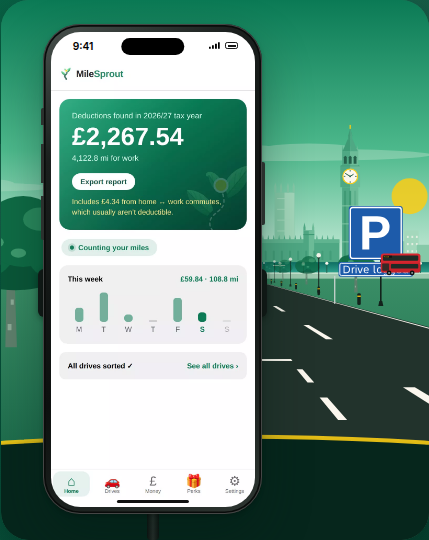
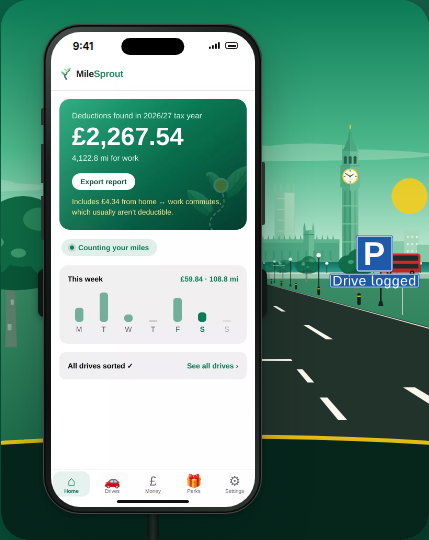
London: bus behind every sign; P sign grounded on a post at the bay's far end, about 30 px
- The bus is drawn in the mid layer (ambient.layer 'mid'), behind every sign, post, tree and bollard.
- P sign: panel about 1.7x the original (about 28-29 CSS px at rest at 390 and 1280), a wider one-line
  'Drive logged' plate (9.5 px cap at rest), on a grey post down to the left kerb at the far end of the bay
  (desktop: on the right verge, its face hanging back over the road). It stays inside the frame and below
  the clock face at both widths, at rest and through the zoom; it fades as the car pulls away (9.1-9.4 s).
- Signs and the bay are placed from the clock (the integral of the pace), not the frame-by-frame sum, so they
  land in the same place as the Reduce Motion still every loop.

Claude-Session: https://claude.ai/code/session_01HV35bfD7NzTSNvA32BVxeb

Changed region(s): [[0.7576, 0.3556, 1.0, 0.563]]

diff --git a/website/assets/site.js b/website/assets/site.js
@@ -758,7 +758,7 @@
         clouds: null, cloudMarkup: cloudsG ? cloudsG.innerHTML : '', sun: sun && { cx: sun.getAttribute('cx'), cy: sun.getAttribute('cy'), r: sun.getAttribute('r') } };
       var bayG = null, bayYellow = null, bayWhite = null;
       var cur = null, curId = 'standard', sign = { list: [], parked: null }, passingEl = null, parkedEl = null, ambEl = null;
-      var loopIdx = 0, sLoop = 0, lastT = 0, cloudX = 0, depthEls = [];
+      var loopIdx = 0, lastT = 0, cloudX = 0, depthEls = [];
       var ctx = {
         text: SCENES.text,
         rate: function (c) {
@@ -776,7 +776,7 @@
       }
       // a sign: its face on one or two posts, drawn with the post's foot at 0,0 (sign px)
       function signMarkup(sp) {
-        var postPx = 0.8 * sp.w / sp.world, pc = sp.post || '#C9D3CE', pw = Math.max(2.5, sp.w * 0.022);
+        var postPx = (sp.postH || 0.8) * sp.w / sp.world, pc = sp.post || '#C9D3CE', pw = Math.max(2.5, sp.w * 0.022);
         var posts = sp.posts === 2 ? [sp.w * 0.22, sp.w * 0.78] : [sp.w / 2];
         var s = '';
         posts.forEach(function (px) { s += '<rect x="' + (px - sp.w / 2 - pw / 2) + '" y="' + (-postPx - 2) + '" width="' + pw + '" height="' + (postPx + 2) + '" fill="' + pc + '"/>'; });
@@ -819,9 +819,16 @@
         signsG.innerHTML = ''; ambientG.innerHTML = ''; overlayG.innerHTML = '';
         sign = def.signs ? def.signs(ctx) : { passing: [], parked: null };
         passingEl = el('g', 'sc-sign', signsG); parkedEl = el('g', 'sc-sign', signsG);
-        if (sign.parked) parkedEl.innerHTML = signMarkup(sign.parked);
+        if (sign.parked) {
+          // on a wide (desktop) scene it stands on the right verge, its face hanging back over the road
+          var spk = sign.parked, pk = def.parked || {};
+          if (window.innerWidth >= 900 && pk.wideAnchor != null) { spk = {}; for (var key in sign.parked) spk[key] = sign.parked[key]; spk.anchor = pk.wideAnchor; }
+          parkedEl.innerHTML = signMarkup(spk);
+        }
         showPassing();
-        ambEl = def.ambient ? el('g', 'sc-amb', ambientG, def.ambient.markup(ctx)) : null;
+        // the ambient detail can live in the mid layer (London's bus on the Embankment: behind every sign, post,
+        // tree and bollard), or above the signs (the default)
+        ambEl = def.ambient ? el('g', 'sc-amb', def.ambient.layer === 'mid' ? midG : ambientG, def.ambient.markup(ctx)) : null;
         if (ambEl) ambEl.setAttribute('opacity', '0');
         SCENES.overlayFor(id, visitorCountry(), function (ov) { if (curId === id && ov.draw) ov.draw(overlayG, ctx); });
         if (still()) place(0, true);
@@ -841,6 +848,14 @@
       // How far the car has gone in the loop when it parks (9 units/s to 1.8 s, then slowing to 2.7 s), so
       // things placed "where the car stops" come to rest exactly there.
       var D_PARK = 9 * 1.8 + 9 * 0.9 * 0.5;
+      // How far the car has gone at t on the clip's clock (the integral of pace): worked out from the clock, not
+      // added up frame by frame, so the signs and the bay land in the same place every loop however the frames fall
+      function distAt(t) {
+        if (t < 1.8) return 9 * t;
+        if (t < 2.7) { var x = (t - 1.8) / 0.9; return 16.2 + 8.1 * (x - x * x * x + x * x * x * x / 2); }
+        if (t < 9.0) return D_PARK;
+        var y = Math.min(1, (t - 9.0) / 0.6); return D_PARK + 5.4 * (y * y * y - y * y * y * y / 2);
+      }
       // Where the parked sign stands: by the kerb where the car stops, near enough to read on a phone; on a
       // wide (desktop) scene the left kerb is behind the phone, so across the road on the right verge.
       function parkedSpot() {
@@ -870,7 +885,7 @@
       function place(t, rest, s, c, shift) {
         if (!cur) return;
         var X = cur.signX || 3.9, spot = parkedSpot();
-        var d = rest ? D_PARK : s - sLoop;
+        var d = rest ? D_PARK : distAt(t);
         if (rest) {
           put(passingEl, null);
           put(parkedEl, sign.parked, spot.X, spot.z, PARKED, 0, 0.8);
@@ -879,6 +894,9 @@
           put(parkedEl, sign.parked, spot.X, spot.z + D_PARK - d, c, shift, 0.8);
           // the parked sign comes into view only as the car slows (1.8 s), not while it's far off
           if (cur.parked && cur.parked.from && t < cur.parked.from) parkedEl.setAttribute('opacity', '0');
+          // and as the car pulls away it fades (fadeOut: [from, to] s) before it can grow past the frame's edge
+          var fo = cur.parked && cur.parked.fadeOut;
+          if (fo && t > fo[0]) parkedEl.setAttribute('opacity', String(Number(parkedEl.getAttribute('opacity')) * clamp(1 - (t - fo[0]) / (fo[1] - fo[0]), 0, 1)));
         }
         bayDraw(d, rest ? PARKED : c, rest ? 0 : shift, rest);
         if (ambEl && cur.ambient) {
@@ -893,7 +911,7 @@
       return {
         // the scene's clock ticks: parallax, clouds, signs, the ambient detail
         frame: function (t, dt, s, c, steerPx) {
-          if (t < lastT - 1) { loopIdx++; sLoop = s; if (sign.passing.length > 1) showPassing(); }
+          if (t < lastT - 1) { loopIdx++; if (sign.passing.length > 1) showPassing(); }
           lastT = t;
           depthEls.forEach(function (g) { g.setAttribute('transform', 'translate(' + (steerPx * Number(g.getAttribute('data-depth'))).toFixed(2) + ' 0)'); });
           if (cloudsG) { cloudX = (cloudX + 2 * dt) % 520; cloudsG.setAttribute('transform', 'translate(' + (cloudX > 260 ? cloudX - 520 : cloudX).toFixed(1) + ' 0)'); }

diff --git a/website/assets/scenes/uk-london.js b/website/assets/scenes/uk-london.js
@@ -130,17 +130,17 @@
       face += rosette(22, 20, 11, WHITE) + T('Westminster', 'uk.medium', c, 40, 20 + c / 2, WHITE);
       list.push({ w: w, h: h, face: face, world: 3.02, posts: 2 });
     })();
-    // Parked: a big blue P with a one-line plate, "Drive logged" (its cap height is about 9-10 CSS px on a
-    // 390 px phone, where it stands by the bay)
+    // Parked: a blue P (about 30 CSS px on a 390 px phone, at rest) over a wider one-line plate, "Drive
+    // logged" (cap height at least 9 CSS px), on a grey post at the kerb by the far end of the bay
     var parked = (function () {
-      var w = 104, ph = 104, c = 14.5;
+      var w = 104, ph = 104, c = 27;
       var face = '<rect x="0" y="0" width="' + w + '" height="' + ph + '" rx="6" fill="' + BLUE + '"/><rect x="3" y="3" width="' + (w - 6) + '" height="' + (ph - 6) + '" rx="4.5" fill="none" stroke="' + WHITE + '" stroke-width="2.6"/>';
       face += T('P', 'uk.heavy', 64, w / 2, 84, WHITE, 'middle');
       var pw = Math.max(w, T.width('Drive logged', 'uk.medium', c) + 16), py = ph + 4, plh = c + 14;
       face += '<rect x="' + (w - pw) / 2 + '" y="' + py + '" width="' + pw + '" height="' + plh + '" rx="4" fill="' + BLUE + '"/><rect x="' + ((w - pw) / 2 + 2.5) + '" y="' + (py + 2.5) + '" width="' + (pw - 5) + '" height="' + (plh - 5) + '" rx="3" fill="none" stroke="' + WHITE + '" stroke-width="1.8"/>';
       face += T('Drive logged', 'uk.medium', c, w / 2, py + 7 + c, WHITE, 'middle');
-      // its post near the left edge, so the whole sign stands clear of the phone on a 390 px screen
-      return { w: w, h: py + plh, face: face, world: 1.6, posts: 1, anchor: 0.12 };
+      // its post near the plate's left end, so the whole sign stands clear of the phone on a 390 px screen
+      return { w: w, h: py + plh, face: face, world: 0.82, posts: 1, anchor: 0.12, postH: 0.6 };
     })();
     return { passing: list, parked: parked };
   }
@@ -171,7 +171,7 @@
     bay: { yellow: [[-0.87, -0.83], [-0.78, -0.74]], kerb: -0.95, x: 0.3, zA: 0.6, zB: 3.0 },
     // the P sign by the bay where the car stops (on wide screens across the road, clear of the phone);
     // it comes into view as the car slows (1.8 s)
-    parked: { X: -1.3, z: 3.35, wideX: 3.6, wideZ: 8, from: 1.8 },
+    parked: { X: -1.05, z: 3.0, wideX: 3.3, wideZ: 6, wideAnchor: 0.88, from: 1.8, fadeOut: [9.1, 9.4] },
     dash: 'rd-dash-w',
     templates: {
       // London plane: an irregular, wider crown in 3-4 lobes with a paler mottled patch; a pale mottled trunk
@@ -188,6 +188,7 @@
     signs: signs,
     glyphs: 'uk',
     ambient: {
+      layer: 'mid', // behind every sign, post, near tree and bollard
       markup: bus,
       // right to left along the Embankment, in front of Elizabeth Tower, while the camera is wide: from
       // 8.6 s (the zoom easing out) to 1.2 s into the next loop; at rest it waits beside the tower

diff --git a/website/index.html b/website/index.html
@@ -21,7 +21,7 @@
 <link rel="stylesheet" href="/assets/site.css?v=6f393e6a">
 <script src="/assets/intro-gate.js?v=5d9700dc"></script>
 <script src="/assets/season.js?v=958db9cd" defer></script>
-<script src="/assets/site.js?v=d066f6b0" defer></script>
+<script src="/assets/site.js?v=de1f396d" defer></script>
 <noscript><style>
   /* Without JavaScript: every feature is listed, the deck is a still picture. */
   .feat { opacity: 1 !important; visibility: visible !important; transform: none !important; grid-area: auto !important; }
@@ -73,7 +73,7 @@
         </a> For iPhone, in the UK, US, Canada and Australia.</p>
       </div>
       <div class="hero-phone">
-        <figure class="scene" id="scene" data-scenes-v="a6cfd98a">
+        <figure class="scene" id="scene" data-scenes-v="54bac982">
           <div class="scene-view">
             <div class="scene-pic" role="img" aria-label="A phone in a car mount while driving: the car parks, the drive (Meanwood Road to Home, 2.2 miles) appears on the MileSprout Home screen, it's swiped to Work, worth £1.21, and the year's total goes up.">
             <svg class="scene-road" viewBox="0 0 400 300" preserveAspectRatio="xMidYMax slice" aria-hidden="true" focusable="false">

diff --git a/website/testers.html b/website/testers.html
@@ -18,7 +18,7 @@
 <link rel="icon" href="/favicon-32.png" sizes="32x32" type="image/png">
 <link rel="apple-touch-icon" href="/apple-touch-icon.png">
 <link rel="stylesheet" href="/assets/site.css?v=6f393e6a">
-<script src="/assets/site.js?v=d066f6b0" defer></script>
+<script src="/assets/site.js?v=de1f396d" defer></script>
 </head>
 <body>
 <a class="skip" href="#main">Skip to content</a>

diff --git a/website/waitlist.html b/website/waitlist.html
@@ -11,7 +11,7 @@
 <link rel="icon" href="/favicon-32.png" sizes="32x32" type="image/png">
 <link rel="apple-touch-icon" href="/apple-touch-icon.png">
 <link rel="stylesheet" href="/assets/site.css?v=6f393e6a">
-<script src="/assets/site.js?v=d066f6b0" defer></script>
+<script src="/assets/site.js?v=de1f396d" defer></script>
 </head>
 <body>
 <a class="skip" href="#main">Skip to content</a>
